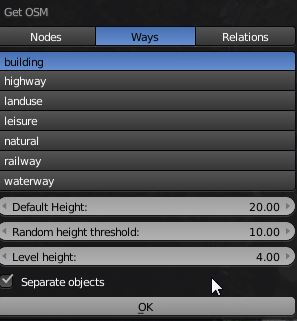
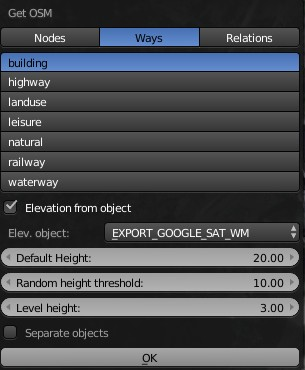
update quick start guide

diff --git a/Quick-start.md b/Quick-start.md
@@ -33,21 +33,7 @@ Sometime the resolution of the image for the desired area is too low, fortunatly
 You can also zoom while pressing `CTRL` key to just zoom over the generated map image without trigger new download and check in detail the resulting resolution. Again, when you're happy with the resulting image, press `E` to export it to a new plane mesh.
 
 
-5) Now we'll gather some 3d buildings from Open Street Map data. With the new plane mesh selected, press *Get OSM* button in *GIS* tool tab.
-
-![](https://raw.githubusercontent.com/wiki/domlysz/blenderGIS/images/quick_start/7_get_osm_button.jpg)
-
-An options dialog will appears :
-
-![](https://raw.githubusercontent.com/wiki/domlysz/blenderGIS/images/quick_start/8_get_osm_options.jpg)
-
-Select *Ways*, *Buildings* and choose a default height value for extruding buildings that don't have any height information. This default height value can also be randomized between a threshold to add some realism. Check the option *Separate objects* and then press ok. After few seconds you will see the imported buildings.
-
-
-![](https://raw.githubusercontent.com/wiki/domlysz/blenderGIS/images/quick_start/9_osm_result.jpg)
-
-
-6) Next step consist of getting some relief from STRM data (global digital elevation model) using OpenTopograhy web service. With the plane mesh selected press *Get SRTM* button.
+5) Next step consist of getting some relief from STRM data (global digital elevation model) using OpenTopograhy web service. With the plane mesh selected press *Get SRTM* button.
 
 
 ![](https://raw.githubusercontent.com/wiki/domlysz/blenderGIS/images/quick_start/10_get_srtm_button.jpg)
@@ -56,22 +42,16 @@ After few seconds, the plane will be wrap according to relief data.
 
 ![](https://raw.githubusercontent.com/wiki/domlysz/blenderGIS/images/quick_start/10_srtm_result.jpg)
 
-7) For the final step, we need to drop our buildings to the relief. Since Blender 2.79, there is a *drop to ground* operator available with the *add advanced objects* addon. You need to activate the addon in Blender preferences:
 
-![](https://raw.githubusercontent.com/wiki/domlysz/blenderGIS/images/quick_start/11_advanced_object_panel.jpg)
+6) Now we'll gather some 3d buildings from Open Street Map data and place them on the ground mesh. With the new plane mesh selected, press *Get OSM* button in *GIS* tool tab.
 
-The tool buttons will appears in the *create* tab :
+![](https://raw.githubusercontent.com/wiki/domlysz/blenderGIS/images/quick_start/7_get_osm_button.jpg)
 
-![](https://raw.githubusercontent.com/wiki/domlysz/blenderGIS/images/quick_start/12_drop_toolbox.jpg)
+An options dialog will appears :
 
-Before performing the drop, we need to place the buildings above the relief mesh.
+![](https://raw.githubusercontent.com/wiki/domlysz/blenderGIS/images/quick_start/8_get_osm_options.jpg)
 
-![](https://raw.githubusercontent.com/wiki/domlysz/blenderGIS/images/quick_start/13_drop_before.jpg)
+Select *Ways*, *Buildings* and choose a default height value for extruding buildings that don't have any height information. This default height value can also be randomized between a threshold to add some realism. Check the option *Elevation from object* and select the mesh representing the ground relief, then press ok. After few seconds you will see the imported buildings.
 
-Then, with all buildings selected and relief mesh as active object, press *drop selected* button. Operator options will appears on the bottom left panel : uncheck *Align to ground*
-
-![](https://raw.githubusercontent.com/wiki/domlysz/blenderGIS/images/quick_start/14_drop_options.jpg)
-
-Final result :
 
 ![](https://raw.githubusercontent.com/wiki/domlysz/blenderGIS/images/quick_start/15_drop_result.jpg)
